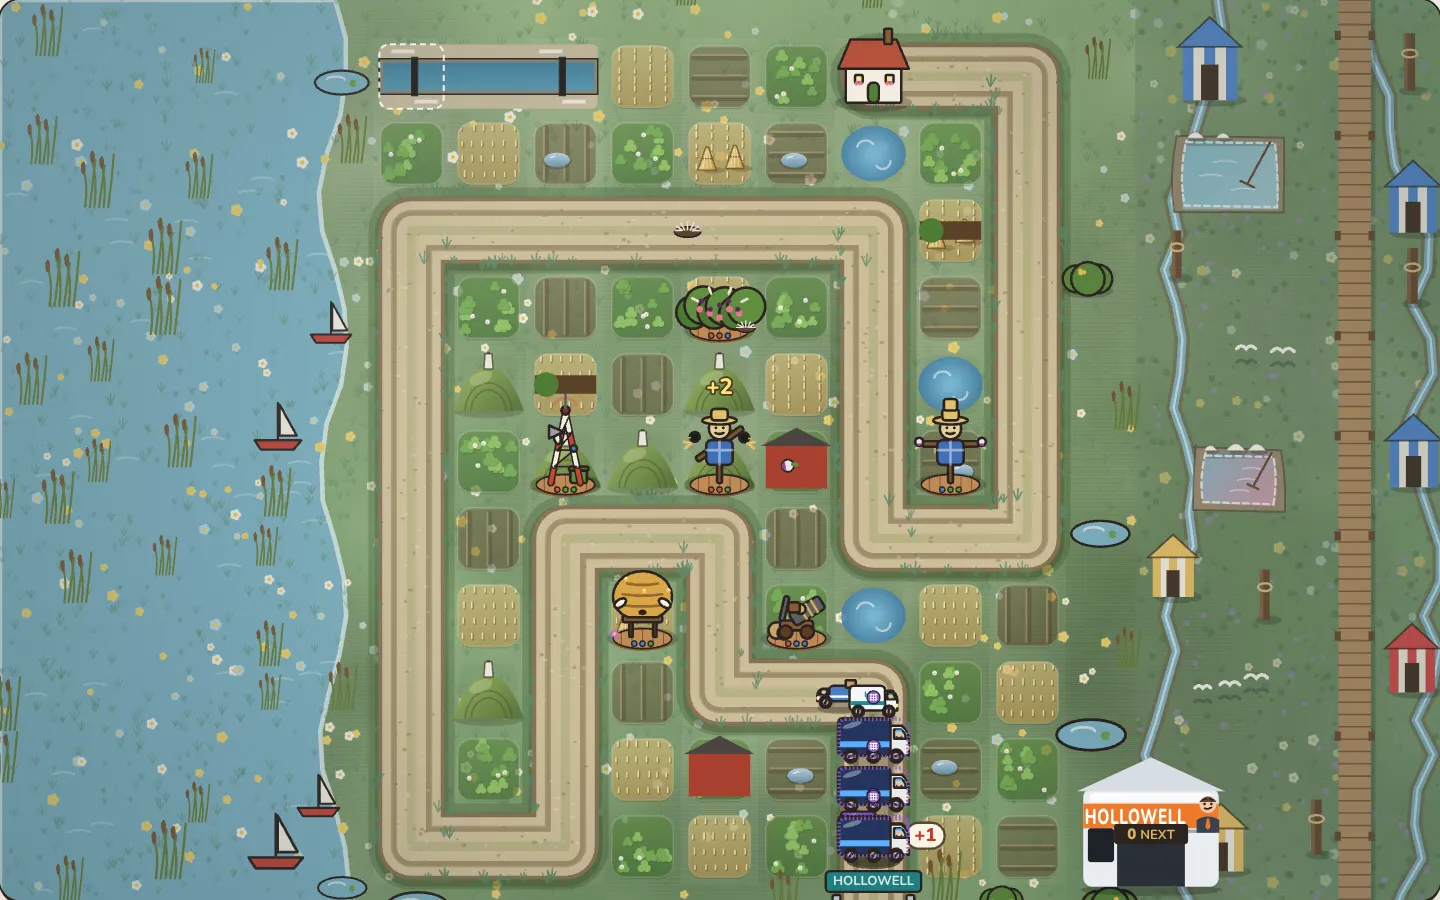
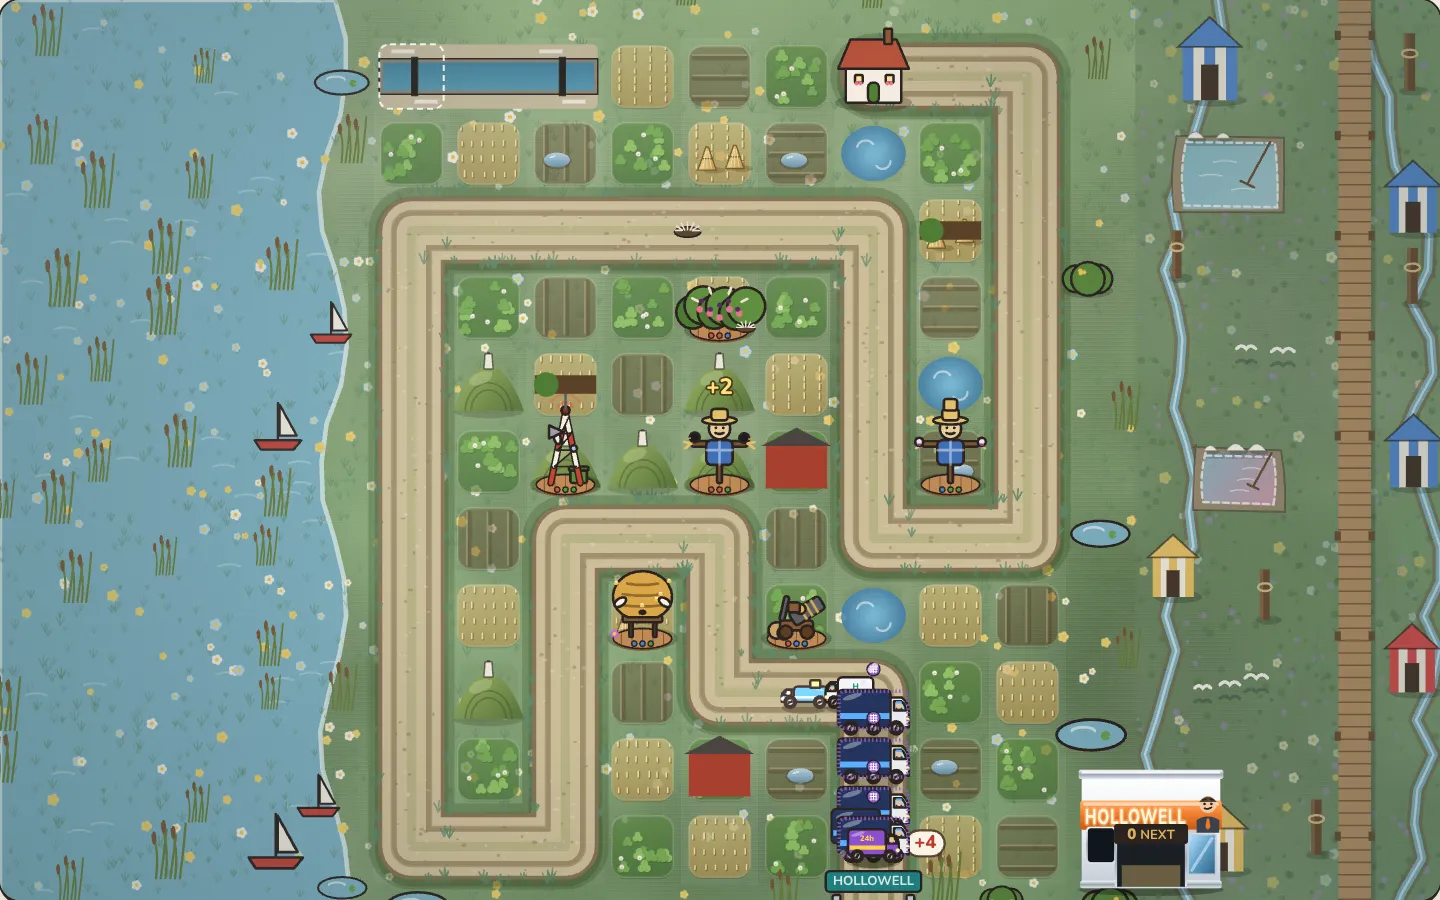
Hedgerow 2D: Hollowell's depot as a glossy megastore (item 295 slice 1)
Claude-Session: https://claude.ai/code/session_01SimvMN1RHBGCWN7Eo7MzhN

diff --git a/games/hedgerow/src/depot.ts b/games/hedgerow/src/depot.ts
@@ -8,26 +8,41 @@ const INK = "#2b2320";
 /** The depot's picture in a 100 x 100 box, its door facing down (towards the lane). */
 export function depotSvg(): string {
   const ribs = Array.from({ length: 6 }, (_, i) => `<path d="M30 ${62 + i * 5}h40" stroke="#9aa3ad" stroke-width="1.2"/>`).join("");
+  // Plan item 295: a glossy megastore, not a shed: a lit white-and-chrome front under an orange canopy with a lit
+  // logo, glass windows either side of the shutter, a chrome plinth. Door and board keep their boxes (main.ts and the
+  // CSS place the count and roll the shutter by them).
   return (
     `<svg viewBox="0 0 100 100" aria-hidden="true">` +
-    `<ellipse cx="50" cy="96" rx="46" ry="4" fill="rgba(0,0,0,0.22)"/>` +
-    // body: glossy grey-white plastic with a single highlight, no outline (STYLE.md: the enemies are glossy)
-    `<rect x="6" y="30" width="88" height="64" rx="6" fill="#e9edf1"/>` +
-    `<rect x="10" y="33" width="80" height="6" rx="3" fill="#ffffff" opacity="0.8"/>` +
-    // roof and brand stripe
-    `<path d="M2 32 50 10l48 22z" fill="#d7dde3"/>` +
-    // Plan item 160: the brand on the stripe at 10 units (12 px+ on a desktop depot; it was 7.2, about 8 px), left of
-    // the rep, who leans on the stripe's right end.
-    // Plan item 281: a deeper stripe and 14-unit letters (12 read about 11 px on D l21's 2D depot).
-    `<rect x="6" y="40" width="88" height="16" fill="#ef7a2a"/>` +
-    `<text x="40" y="53.2" text-anchor="middle" font-size="14" font-weight="800" fill="#fff" font-family="'Hedgerow UI', system-ui, sans-serif" letter-spacing="0.6" textLength="66" lengthAdjust="spacingAndGlyphs">HOLLOWELL</text>` +
-    // roller door
-    `<rect x="28" y="58" width="44" height="36" fill="#2a2f36"/>` +
+    `<defs>` +
+    `<linearGradient id="dp-wall" x1="0" y1="0" x2="0" y2="1"><stop offset="0" stop-color="#ffffff"/><stop offset=".55" stop-color="#e6ebf0"/><stop offset="1" stop-color="#c3ccd5"/></linearGradient>` +
+    `<linearGradient id="dp-canopy" x1="0" y1="0" x2="0" y2="1"><stop offset="0" stop-color="#ffb066"/><stop offset=".5" stop-color="#ef7a2a"/><stop offset="1" stop-color="#c85a14"/></linearGradient>` +
+    `<linearGradient id="dp-glass" x1="0" y1="0" x2="1" y2="1"><stop offset="0" stop-color="#bfe6ff"/><stop offset=".5" stop-color="#5f9fc8"/><stop offset="1" stop-color="#2f5f80"/></linearGradient>` +
+    `<linearGradient id="dp-chrome" x1="0" y1="0" x2="0" y2="1"><stop offset="0" stop-color="#f4f7fa"/><stop offset=".5" stop-color="#9aa6b2"/><stop offset="1" stop-color="#dfe5ea"/></linearGradient>` +
+    `</defs>` +
+    `<ellipse cx="50" cy="96" rx="47" ry="4" fill="rgba(0,0,0,0.3)"/>` +
+    // the block, lit from above, on a chrome plinth
+    `<rect x="5" y="22" width="90" height="72" rx="3" fill="url(#dp-wall)"/>` +
+    `<rect x="4" y="90" width="92" height="5" rx="1.5" fill="url(#dp-chrome)"/>` +
+    // a flat roof's chrome cornice with a hard sheen
+    `<rect x="3" y="18" width="94" height="6" rx="1.5" fill="url(#dp-chrome)"/>` +
+    `<rect x="5" y="19" width="90" height="1.4" fill="#ffffff" opacity=".9"/>` +
+    // Plan items 160/281: the brand on the canopy at 14 units, now lit: a glow behind the letters.
+    `<rect x="4" y="38" width="92" height="19" rx="2" fill="url(#dp-canopy)"/>` +
+    `<rect x="6" y="39.2" width="88" height="2.2" rx="1" fill="#ffffff" opacity=".55"/>` +
+    `<text x="40" y="53.2" text-anchor="middle" font-size="14" font-weight="800" fill="#fff6d6" stroke="#ffd59a" stroke-width="2.4" stroke-opacity=".45" paint-order="stroke" font-family="'Hedgerow UI', system-ui, sans-serif" letter-spacing="0.6" textLength="66" lengthAdjust="spacingAndGlyphs">HOLLOWELL</text>` +
+    // glass shop windows either side of the shutter, with a diagonal glare
+    `<rect x="74" y="60" width="18" height="26" rx="1" fill="url(#dp-glass)" stroke="#c3ccd5" stroke-width="1.2"/>` +
+    `<path d="M76 84 90 62" stroke="#ffffff" stroke-width="2" opacity=".45"/>` +
+    // the roller shutter in a chrome frame
+    `<rect x="26.5" y="57" width="47" height="37" rx="1.5" fill="url(#dp-chrome)"/>` +
+    `<rect x="28" y="58" width="44" height="36" fill="#1a1f25"/>` +
+    `<rect x="31" y="80" width="38" height="14" fill="#ffd27a" opacity=".35"/>` +
     `<g class="depot-door"><rect x="28" y="58" width="44" height="36" rx="2" fill="#c9d0d7"/>${ribs}</g>` +
-    // departures board on the left wall
-    `<rect x="9" y="56" width="17" height="22" rx="2" fill="#1d2228"/>` +
-    // balcony rail on the right
-    `<path d="M74 58h18" stroke="#9aa3ad" stroke-width="2"/>` +
+    // the countdown screen on the left wall (main.ts lays the count over it)
+    `<rect x="8" y="55" width="19" height="24" rx="2" fill="url(#dp-chrome)"/>` +
+    `<rect x="9" y="56" width="17" height="22" rx="2" fill="#11161c"/>` +
+    // balcony rail on the right, chrome
+    `<path d="M74 58h18" stroke="#c3ccd5" stroke-width="2"/>` +
     `</svg>`
   );
 }

diff --git a/docs/plan/two-week-plan.md b/docs/plan/two-week-plan.md
@@ -2877,7 +2877,7 @@ The items come from fresh-eyes audits on 2026-11-01 and 2026-11-02 (items 25-32:
 - **Accept:** figure 300 px+ tall at P; no text over the figure without a scrim, 4.5:1; NIGHT SHIFT specs pass; shots P and D.
 - **Size:** 2
 
-## 295. [ ] Hedgerow 2D: Hollowell's depots as glossy megastores *(lane B, in progress)*
+## 295. [ ] Hedgerow 2D: Hollowell's depots as glossy megastores *(lane B, in progress)* *(slice 1, 2026-11-08 13:40 lane B: the 2D depot as a glossy megastore: a top-lit white block on a chrome plinth under a chrome cornice, the HOLLOWELL canopy in a glossy orange gradient with lit letters, a glass shop window with glare, the shutter and the countdown screen in chrome frames; door and board boxes unchanged. Checked, already there: the shutter rolls up as the round launches (500 ms, item 157), the count on the screen (P l34: 202 and 283 read about 20 px). depot, gatequeue, vehicles pass (27); key art re-shot; shots scratchpad dep295, dep295p. Left: the gate sign over the road on P l34 (the gate's own board, kept), the 3D depot is item 280's)*
 - **Why:** `plan1108c/hedge-l34-2d-D` (90-220 x 120-240, 90-220 x 595-715), `hedge-l21-2d-D` (160-280 x 355-470): the 2D depot is a plain white shed with a pasted label; VISION wants the corporations glossy and over-lit. (Item 280 did the 3D depot.)
 - **Build:** a chrome and orange storefront with a lit logo, a roller shutter that opens as a round launches, a countdown screen for the NEXT number, the sign on the building and off the road.
 - **Accept:** the countdown 16 px+ at P at 4.5:1; the shutter 600 ms or less (fade under reduced motion); no label over the road or the vans; depot, gatequeue specs pass; shots P and D, l21 and l34; key art re-shot.
